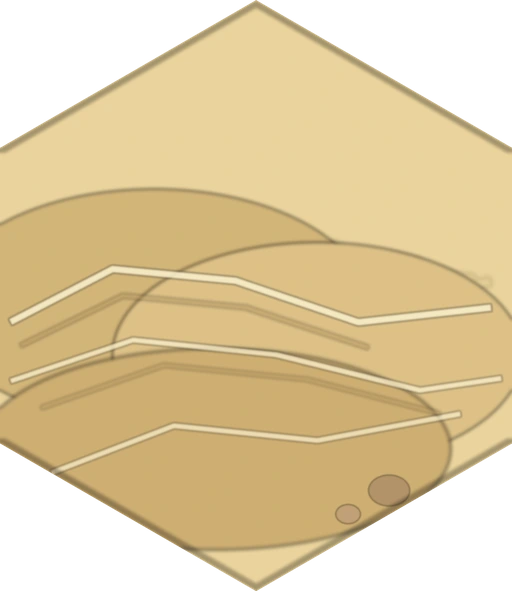
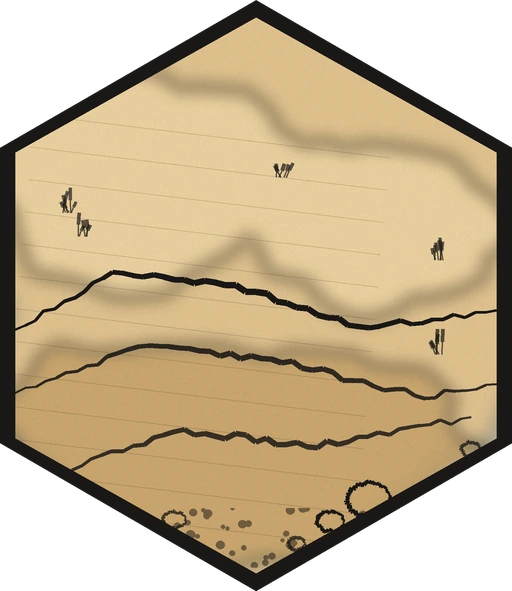
Карта: гексы в акварельно-тушевом стиле, отступ панели описания
1) Все 8 гексов перерисованы под присланный референс:
   - акварельная заливка с рваным краем (наложение 2-3 пятен)
   - зерно бумаги с волокнами, краска ложится умножением
   - тушь: дрожащие линии с нажимом, силуэты залиты чёрным
   - толстая чёрная рамка по контуру гекса
   - детали: пучки травы, крапины, штриховка теней

2) Панель «ВЫБЕРИТЕ ГЕКС» больше не прилипает к первому пункту
   легенды: margin-top 20px -> margin-bottom 32px

Техника рендера: /tmp/hx/wc.py (акварель + тушь), /tmp/hx/all.py (8 местностей)

Changed region(s): [[0.0, 0.0, 1.0, 1.0]]

diff --git a/index.html b/index.html
@@ -234,7 +234,9 @@
         }
 
         .map-info {
-            margin-top: 20px;
+            /* панель описания стоит первой в легенде и не должна
+               прилипать к первому пункту списка местности */
+            margin: 0 0 32px;
             padding: 15px;
             background: #111;
             border: 2px solid var(--border-color);
